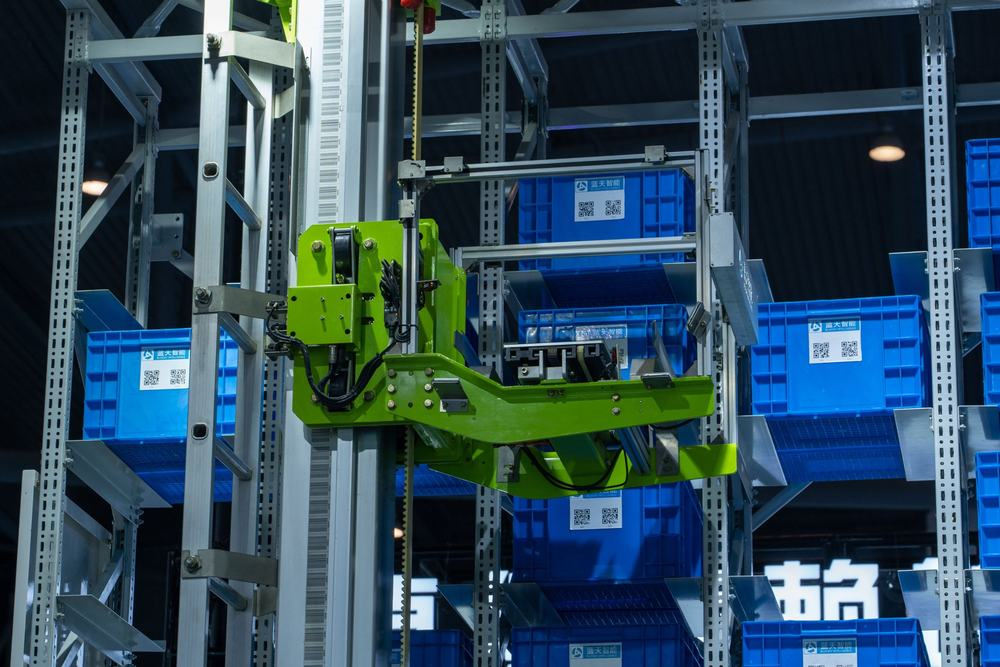
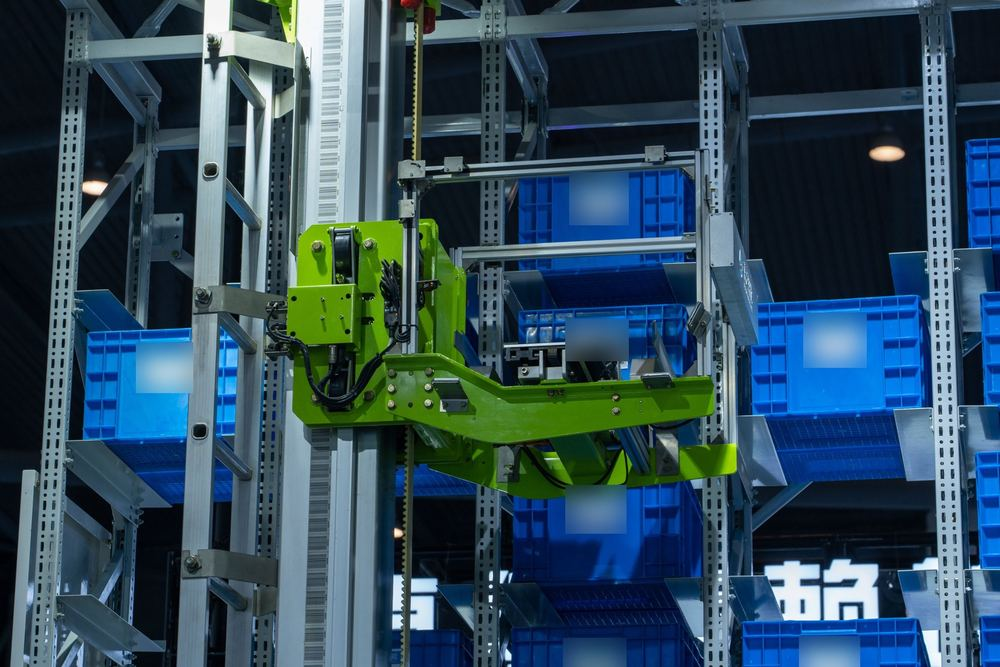
Styling pass: cyan accent, mono labels, unified lighter photo grade, dark How we work panel

diff --git a/styles.css b/styles.css
@@ -10,6 +10,8 @@
   --line:#DDE3EF;
   --display:"Plus Jakarta Sans","Helvetica Neue",Arial,sans-serif;
   --body:"Instrument Sans","Helvetica Neue",Arial,sans-serif;
+  --mono:"IBM Plex Mono",ui-monospace,Menlo,Consolas,monospace;
+  --accent:#2FD3E8;
   --gutter:clamp(16px,3vw,32px);
   --r-xl:36px;
   --r-lg:28px;
@@ -23,7 +25,7 @@ img,svg{display:block;max-width:100%}
 a{color:inherit}
 :focus-visible{outline:3px solid var(--blue);outline-offset:3px;border-radius:12px}
 .wrap{max-width:1240px;margin:0 auto;padding:0 var(--gutter)}
-h1,h2,h3{font-family:var(--display);letter-spacing:-0.025em;text-wrap:balance}
+h1,h2,h3{font-family:var(--display);letter-spacing:-0.022em;text-wrap:balance}
 
 /* nav */
 .nav{display:flex;align-items:center;justify-content:space-between;gap:16px;padding:18px 0}
@@ -42,23 +44,30 @@ h1,h2,h3{font-family:var(--display);letter-spacing:-0.025em;text-wrap:balance}
 .ph{position:relative;overflow:hidden;background:var(--blue-deep)}
 .ph>svg,.ph>img,.ph>video{position:absolute;inset:0;width:100%;height:100%;object-fit:cover;transition:transform .8s cubic-bezier(.2,.7,.2,1)}
 
+/* unified photo grade */
+.card .ph,.about-photo,.how-photo{isolation:isolate}
+.card .ph::before,.about-photo::before,.how-photo::before{content:"";position:absolute;inset:0;z-index:1;pointer-events:none;background:rgba(40,78,168,.25);mix-blend-mode:color}
+.card .ph>img,.about-photo>img,.how-photo>img{filter:saturate(.75) contrast(1.06)}
+.btn-accent{background:var(--accent);color:var(--ink)}
+.btn-accent:hover{background:#6FE3F2}
+
 /* hero */
 .hero{background:#08142E;position:relative;border-radius:var(--r-xl);min-height:clamp(560px,72vh,700px);display:flex;align-items:flex-end;color:#fff}
 .hero::after{content:"";position:absolute;inset:0;background:linear-gradient(to top,rgba(8,20,46,.82) 0%,rgba(8,20,46,.45) 38%,rgba(8,20,46,0) 68%),linear-gradient(to right,rgba(8,20,46,.45),rgba(8,20,46,0) 60%)}
 .hero-copy{position:relative;z-index:2;padding:clamp(24px,5vw,64px);max-width:820px}
-.hero h1{font-size:clamp(2.5rem,6.2vw,5rem);line-height:1;font-weight:800;margin-bottom:22px}
+.hero h1{font-size:clamp(2.5rem,6.2vw,5rem);line-height:1;font-weight:700;margin-bottom:22px}
 .hero p{font-size:clamp(1.05rem,1.6vw,1.25rem);max-width:46ch;color:rgba(255,255,255,.9);margin-bottom:32px}
 .cta-row{display:flex;flex-wrap:wrap;gap:12px}
 
 /* sections */
 section{padding-top:clamp(64px,9vw,112px)}
 .head{display:grid;grid-template-columns:1fr;gap:14px;margin-bottom:36px}
-.head h2{font-size:clamp(2rem,4.4vw,3.4rem);line-height:1.04;font-weight:800}
+.head h2{font-size:clamp(2rem,4.4vw,3.4rem);line-height:1.04;font-weight:700}
 .head p{color:var(--muted);max-width:52ch}
 
 .grid3{display:grid;grid-template-columns:repeat(3,1fr);gap:20px}
 .card{background:var(--card);border-radius:var(--r-lg);overflow:hidden;display:flex;flex-direction:column;transition:transform .3s,box-shadow .3s;box-shadow:0 1px 0 var(--line)}
-.card:hover{transform:translateY(-6px);box-shadow:0 22px 44px -24px rgba(10,23,51,.35)}
+.card:hover{transform:translateY(-6px);box-shadow:0 22px 44px -24px rgba(10,23,51,.35),0 0 0 2px var(--accent)}
 .card:hover .ph>svg{transform:scale(1.05)}
 .card .ph{aspect-ratio:4/3.1}
 .card .body{padding:26px 28px 32px}
@@ -70,11 +79,11 @@ section{padding-top:clamp(64px,9vw,112px)}
 .about-photo{min-height:520px;display:flex;align-items:flex-end;color:#fff}
 .about-photo::after{content:"";position:absolute;inset:0;background:linear-gradient(to top,rgba(8,20,46,.88),rgba(8,20,46,.45) 42%,rgba(8,20,46,0) 72%)}
 .about-photo .in{position:relative;z-index:2;padding:clamp(24px,4vw,48px);max-width:560px}
-.about-photo h2{font-size:clamp(1.9rem,3.6vw,2.8rem);line-height:1.05;font-weight:800;margin-bottom:12px}
+.about-photo h2{font-size:clamp(1.9rem,3.6vw,2.8rem);line-height:1.05;font-weight:700;margin-bottom:12px}
 .about-photo p{color:rgba(255,255,255,.88)}
 .who{padding:clamp(28px,4vw,56px);display:flex;flex-direction:column;gap:20px;justify-content:center}
 .who img{height:56px;width:auto;align-self:flex-end;margin-top:auto;padding-top:12px}
-.who h3{font-size:clamp(1.8rem,3vw,2.6rem);line-height:1.08;font-weight:800}
+.who h3{font-size:clamp(1.8rem,3vw,2.6rem);line-height:1.08;font-weight:700}
 .facts{list-style:none;padding:0;margin-top:6px}
 .facts li{display:flex;align-items:center;gap:16px;padding:16px 0;border-top:1px solid var(--line);font:600 1.05rem/1.3 var(--display);letter-spacing:-0.01em}
 .facts .icon{flex:none;width:44px;height:44px;border-radius:50%;background:var(--mist);color:var(--blue-deep);display:grid;place-items:center}
@@ -82,20 +91,26 @@ section{padding-top:clamp(64px,9vw,112px)}
 .who p{color:var(--muted);max-width:42ch}
 .how{display:grid;grid-template-columns:5fr 7fr;background:var(--card);border-radius:var(--r-xl);overflow:hidden}
 .how-main{padding:clamp(28px,4vw,56px);display:flex;flex-direction:column;gap:18px;justify-content:center}
-.how-main h3{font-size:clamp(1.8rem,3vw,2.6rem);line-height:1.08;font-weight:800}
+.how-main h3{font-size:clamp(1.8rem,3vw,2.6rem);line-height:1.08;font-weight:700}
 .how-main>p{color:var(--muted);max-width:42ch}
 .facts h4{font:600 1.05rem/1.3 var(--display);letter-spacing:-0.01em}
 .facts div p{color:var(--muted);font-size:.98rem;line-height:1.4}
 .how-photo{min-height:480px;display:flex;align-items:flex-end;color:#fff}
 .how-photo::after{content:"";position:absolute;inset:0;background:linear-gradient(to top,rgba(8,20,46,.85),rgba(8,20,46,.3) 50%,rgba(8,20,46,0) 75%)}
 .how-photo .in{position:relative;z-index:2;padding:clamp(24px,4vw,48px)}
-.how-photo h3{font-size:clamp(1.9rem,3.6vw,2.8rem);line-height:1.05;font-weight:800;margin-bottom:12px}
+.how-photo h3{font-size:clamp(1.9rem,3.6vw,2.8rem);line-height:1.05;font-weight:700;margin-bottom:12px}
 .how-photo p{color:rgba(255,255,255,.88);max-width:40ch}
+.how-main{background:var(--ink);color:#fff}
+.how-main>p{color:rgba(255,255,255,.68)}
+.how-main .facts li{border-top-color:rgba(255,255,255,.14)}
+.how-main .facts .icon{background:rgba(47,211,232,.14);color:var(--accent)}
+.how-main .facts div p{color:rgba(255,255,255,.66)}
+.how-logo{height:44px;width:auto;align-self:flex-end;margin-top:auto;padding-top:12px}
 
 /* contact */
 .contact{display:grid;grid-template-columns:1fr 1fr;gap:40px clamp(32px,6vw,96px);align-items:start;background:var(--mist);border-radius:var(--r-xl);padding:clamp(24px,5vw,64px)}
-.eyebrow{font:600 .8rem/1 var(--display);letter-spacing:.14em;text-transform:uppercase;color:var(--blue-deep);margin-bottom:20px}
-.contact h2{font-size:clamp(2.6rem,6vw,4.6rem);line-height:1;font-weight:800;margin-bottom:22px}
+.eyebrow{font:500 .75rem/1 var(--mono);letter-spacing:.16em;text-transform:uppercase;color:var(--blue-deep);margin-bottom:20px}
+.contact h2{font-size:clamp(2.6rem,6vw,4.6rem);line-height:1;font-weight:700;margin-bottom:22px}
 .contact .lead{font-size:1.25rem;color:var(--muted);max-width:30ch;margin-bottom:36px}
 .details{list-style:none;padding:0;display:grid;gap:18px;color:var(--muted)}
 .details li{display:flex;gap:14px;align-items:flex-start}
@@ -135,7 +150,7 @@ section{padding-top:clamp(64px,9vw,112px)}
 .doc[hidden],#docs[hidden],main[hidden]{display:none}
 .doc .back{display:inline-flex;gap:8px;align-items:center;font:600 .95rem/1 var(--display);text-decoration:none;color:var(--blue-deep);margin-bottom:28px}
 .doc .back:hover{text-decoration:underline}
-.doc h1{font-size:clamp(2rem,5vw,3rem);line-height:1.05;font-weight:800;margin-bottom:8px}
+.doc h1{font-size:clamp(2rem,5vw,3rem);line-height:1.05;font-weight:700;margin-bottom:8px}
 .doc .updated{color:var(--muted);margin-bottom:32px}
 .doc h2{font-size:1.25rem;font-weight:700;margin:32px 0 8px;letter-spacing:-0.015em}
 .doc p,.doc li{color:#2C3956;max-width:68ch}
@@ -151,7 +166,7 @@ footer{padding:clamp(48px,7vw,88px) 0 32px}
 .foot-links{display:flex;gap:32px;list-style:none;padding:0}
 .foot-links a{text-decoration:none;font-weight:500;color:var(--muted);transition:color .2s}
 .foot-links a:hover{color:var(--ink)}
-.foot-bottom{color:var(--muted);font-size:.85rem;display:grid;gap:4px}
+.foot-bottom{color:var(--muted);font:400 .78rem/1.5 var(--mono);display:grid;gap:4px}
 .foot-bottom p{max-width:90ch}
 
 @media (max-width:900px){
@@ -167,6 +182,7 @@ footer{padding:clamp(48px,7vw,88px) 0 32px}
   .how-photo{min-height:360px}
   .about-photo{min-height:360px}
   .who img{margin-top:12px}
+  .how-logo{margin-top:12px}
   .contact{grid-template-columns:1fr}
   .foot-links{display:none;width:100%;flex-direction:column;gap:0}
   .foot.open .foot-links{display:flex}

diff --git a/index.html b/index.html
@@ -12,7 +12,7 @@
 <meta name="description" content="ModelFlow is a Dubai-based B2B firm offering operational advisory and general trading to businesses worldwide.">
 <link rel="preconnect" href="https://fonts.googleapis.com">
 <link rel="preconnect" href="https://fonts.gstatic.com" crossorigin>
-<link href="https://fonts.googleapis.com/css2?family=Instrument+Sans:wght@400;500;600&family=Plus+Jakarta+Sans:wght@500;600;700;800&display=swap" rel="stylesheet">
+<link href="https://fonts.googleapis.com/css2?family=IBM+Plex+Mono:wght@400;500&family=Instrument+Sans:wght@400;500;600&family=Plus+Jakarta+Sans:wght@500;600;700;800&display=swap" rel="stylesheet">
 <link rel="stylesheet" href="styles.css">
 </head>
 <body>
@@ -41,7 +41,7 @@
         <h1>Advisory and trade for global business.</h1>
         <p>At ModelFlow we help companies run better and grow internationally.</p>
         <div class="cta-row">
-          <a class="btn btn-white" href="#contact">Get in touch</a>
+          <a class="btn btn-accent" href="#contact">Get in touch</a>
           <a class="btn btn-ghost" href="#what">What we do</a>
         </div>
       </div>
@@ -117,6 +117,7 @@
             <li><span class="icon"><svg viewBox="0 0 24 24" fill="none" stroke="currentColor" stroke-width="1.8" stroke-linecap="round" stroke-linejoin="round" aria-hidden="true"><path d="M4 5h16v11H9l-5 4V5Z"/></svg></span><div><h4>Direct access</h4><p>You deal with the people making decisions.</p></div></li>
             <li><span class="icon"><svg viewBox="0 0 24 24" fill="none" stroke="currentColor" stroke-width="1.8" stroke-linecap="round" stroke-linejoin="round" aria-hidden="true"><circle cx="12" cy="12" r="9"/><path d="M3 12h18"/><path d="M12 3c3.2 3 3.2 15 0 18"/><path d="M12 3c-3.2 3-3.2 15 0 18"/></svg></span><div><h4>International scope</h4><p>Based in Dubai, serving clients worldwide.</p></div></li>
           </ul>
+          <img class="how-logo" src="assets/logo-white.png" alt="ModelFlow">
         </div>
         <div class="how-photo ph">
           <img src="assets/how-bg.jpg" alt="">
